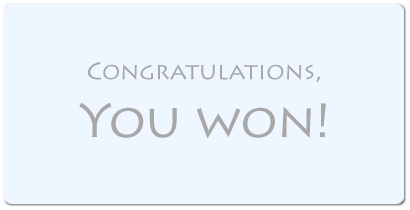
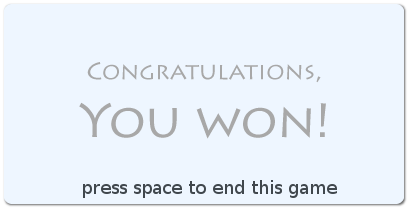
Fixed Unit movement hickup when zooming, Units don't lock up nearly as often or possibly never. Fixed UI top left (victory conditions). Units don't wait one tick before going for their next waypoint.

Changed region(s): [[0.2049, 0.8571, 0.8195, 0.9429]]

diff --git a/xna/G.O/G.O/Tools/ThemeManager.cs b/xna/G.O/G.O/Tools/ThemeManager.cs
@@ -31,10 +31,9 @@ namespace ION
             countY = tileCountY;
 
             xDiff = tileCountX - tileCountY;
-
-           
-            width = (tileCountX+tileCountY-1) * ((float)Tile.baseHalfWidth);
-            height = (tileCountX + tileCountY - 1) * ((float)Tile.baseHalfHeight);
+      
+            width = (tileCountX+tileCountY) * ((float)Tile.baseHalfWidth);
+            height = (tileCountX + tileCountY) * ((float)Tile.baseHalfHeight);
             
             if (theme == MOON_THEME)
             {
@@ -62,39 +61,18 @@ namespace ION
 
         public void resizeGroundTexture()
         {
-            width = (countX + countY - 1) * (Tile.baseHalfWidth);
-            height = (countX + countY - 1) * (Tile.baseHalfHeight);
+            width = (countX + countY) * (Tile.baseHalfWidth);
+            height = (countX + countY) * (Tile.baseHalfHeight);
         }
 
         public void drawGroundTexture()
         {
-            //for (int j = -2; j < countY + 2; j++)
-            //{
 
-            //    temp.X = ION.halfWidth + (int)StateTest.translationX - (((int)width / 2) - (j * (int)width / 2));
-            //    temp.Y = (int)StateTest.translationY - (((int)height / 2) * 2 - (j * (((int)height / 2))));
-            //    temp.Width = (int)width;
-            //    temp.Height = (int)height;
-            //    ION.spriteBatch.Draw(Images.groundTexture, temp, Color.White);
-
-            //    for (int i = 0; i < countX; i++)
-            //    {
-            //        temp.X -= ((int)width / 2);
-            //        temp.Y += ((int)height / 2);
-            //        ION.spriteBatch.Draw(Images.groundTexture, temp, Color.White);
-            //        // temp.Width = (int)width;
-            //        //  temp.Height = (int)height;
-            //    }
-
-            //}
-            //temp.X -= ((int)width / 2);
-            //temp.Y += ((int)height / 2);
             temp.X = ION.halfWidth - ((int)width / 2) + (int)StateTest.get().translationX - (int)(xDiff * (Tile.baseHalfWidth / 2));
-            temp.Y = (int)StateTest.get().translationY;// -((int)height / 2);
+            temp.Y = (int)StateTest.get().translationY;
             temp.Width = (int)width;
             temp.Height = (int)height;
-            //temp.X = ION.halfWidth + (int)StateTest.translationX - (((int)width / 2));
-            //temp.Y = (int)StateTest.translationY - (((int)height / 2) * 2 );
+
             ION.spriteBatch.Draw(Images.groundTexture, temp, Color.White);
 
            

diff --git a/xna/G.O/G.O/UI/Implementations/LevelInfo.cs b/xna/G.O/G.O/UI/Implementations/LevelInfo.cs
@@ -22,8 +22,17 @@ namespace ION.UI
 
         public override void draw()
         {
-            ION.spriteBatch.DrawString(Fonts.small, "Collect "+Grid.toCollect+" ION, "+(int)Grid.get().totalCollected+" so far", position, Color.Gray);
-            //ION.spriteBatch.DrawString(Fonts.small, "Level: " + StateTest.get().levels[StateTest.get().level], position, Color.Gray);
+            //ION.spriteBatch.DrawString(Fonts.small, "Collect "+Grid.toCollect+" ION, "+(int)Grid.get().totalCollected+" so far", position, Color.Gray);
+            ////ION.spriteBatch.DrawString(Fonts.small, "Level: " + StateTest.get().levels[StateTest.get().level], position, Color.Gray);
+
+            if (StateTest.victoryCondition == StateTest.ANNIHILATION)
+            {
+                ION.spriteBatch.DrawString(Fonts.font, "Destroy all enemy bases!", position, Color.Gray);
+            }
+            else if (StateTest.victoryCondition == StateTest.RESOURCE_RACE)
+            {
+                ION.spriteBatch.DrawString(Fonts.font, "Reach "+(int)Grid.toCollect+" ION!", position, Color.Gray);
+            }
         }
 
         public override void offset(int screenX, int screenY)

diff --git a/xna/G.O/G.O/State/StateTest.cs b/xna/G.O/G.O/State/StateTest.cs
@@ -137,10 +137,21 @@ namespace ION
 
         public override void update(int ellapsed)
         {
+            //get keyboard input
+            KeyboardState keyState = Keyboard.GetState();
+
+            //get mouse input
+            MouseState mouseState = Mouse.GetState();
+
+            
             if (gameEnded)
             {
 
                 //listen for key to go back to menu
+                if (keyState.IsKeyDown(Keys.Space))
+                {
+                    ION.get().setState(new StateTitle());
+                }
 
                 return;
             }
@@ -150,11 +161,6 @@ namespace ION
 
             checkVictoryCondition();
 
-            //get keyboard input
-            KeyboardState keyState = Keyboard.GetState();
-
-            //get mouse input
-            MouseState mouseState = Mouse.GetState();
 
            
 

diff --git a/xna/G.O/G.O/Units/Robot.cs b/xna/G.O/G.O/Units/Robot.cs
@@ -138,14 +138,11 @@ namespace ION
                 //return returnValue;
             }
 
-            if (targetPosition != null)
-            {
-                move();
-            }
-            else
-            {
+     
+            //else
+            //{
                 // Code for waypoints
-                if (!moving && destination.Count() != 0)
+                if (targetPosition == null && destination.Count > 0)
                 {
 
                     targetPosition = destination.Dequeue();
@@ -153,7 +150,14 @@ namespace ION
                     //targetPos = temp.GetPos(translationX, translationY);            
                 }
 
-            }
+            //}
+
+            if (targetPosition != null)
+            {
+                move();
+            } 
+
+
             if (scan > Grid.TPS * fireRate)
             {
  

diff --git a/xna/G.O/G.O/Grid/Tile.cs b/xna/G.O/G.O/Grid/Tile.cs
@@ -107,6 +107,14 @@ namespace ION
             return false;
         }
 
+        public void calcSize()
+        {
+            drawingRectangle.X = (int)(ION.halfWidth + (visualX * baseHalfWidth) + StateTest.get().translationX - (baseHalfWidth));
+            drawingRectangle.Y = (int)((visualY * baseHalfHeight) + StateTest.get().translationY);
+            drawingRectangle.Width = (int)(baseHalfWidth * 2);
+            drawingRectangle.Height = (int)(baseHalfHeight * 2);
+        }
+
         //public Vector2 GetPos(float translationX, float translationY)
         //{
         //    Vector2 v = new Vector2();

diff --git a/xna/G.O/G.O/UI/GUIManager.cs b/xna/G.O/G.O/UI/GUIManager.cs
@@ -45,9 +45,9 @@ namespace ION.UI
 
             GUIComposite generalInfo = new GUIComposite(20, 20, Images.selectionBar);
             generalInfo.add(new GUIComponent(10,5, Images.textVictory));
-            generalInfo.add(new LevelInfo(15, 30));
+            generalInfo.add(new LevelInfo(15, 25));
             //generalInfo.add(new StrategyInfo(15, 25));
-            generalInfo.add(new Label(15, 40, "Hold H for Help"));
+            generalInfo.add(new Label(15, 45, "Hold H for Help"));
             addComponent(generalInfo);
 
             //ION.get().IsMouseVisible = false;

diff --git a/xna/G.O/G.O/Units/Unit.cs b/xna/G.O/G.O/Units/Unit.cs
@@ -201,7 +201,10 @@ namespace ION
                 if (u is Robot && u.moving)
                 {
                     Robot r = (Robot)u;
-                    
+
+                    r.position.calcSize();
+                    r.targetPosition.calcSize();
+
                     r.movement.X = r.targetPosition.drawingRectangle.X - r.position.drawingRectangle.X;
                     r.movement.Y = r.targetPosition.drawingRectangle.Y - r.position.drawingRectangle.Y;
 

diff --git a/xna/G.O/G.O/Tools/SoundManager.cs b/xna/G.O/G.O/Tools/SoundManager.cs
@@ -155,7 +155,7 @@ namespace ION.Tools
 
         public static void turretSound()
         {
-            levelOfAction += 10;
+            levelOfAction += 30;
 
             for (int i = 0; i < turretsoundsCount; i++)
             {
@@ -169,7 +169,7 @@ namespace ION.Tools
 
         public static void fireSound()
         {
-            levelOfAction+=10;
+            levelOfAction+=20;
 
             Double d = Tool.unsafeRandom.NextDouble();
 

diff --git a/xna/G.O/G.O/Tools/StupidAI.cs b/xna/G.O/G.O/Tools/StupidAI.cs
@@ -36,7 +36,7 @@ namespace ION.Tools
                 //do things
                 List<Unit> aiUnits = Grid.get().getPlayerUnits(ai);
 
-                if (aiUnits.Count < 3 && maxUnits > 0)
+                if (aiUnits.Count < 2 && maxUnits > 0)
                 {
                     serial++;
                     maxUnits--;

diff --git a/xna/G.O/G.O/ION.cs b/xna/G.O/G.O/ION.cs
@@ -417,8 +417,8 @@ namespace ION
 
 
             //Set the inital state
-            state = new StateTitle();
-            //state = new StateIntro();
+            //state = new StateTitle();
+            state = new StateIntro();
 
             //state = new StateTest();
 

diff --git a/xna/G.O/G.O/Grid/ResourceTile.cs b/xna/G.O/G.O/Grid/ResourceTile.cs
@@ -78,6 +78,8 @@ namespace ION
             //}
         }
 
+
+
         public override void update()
         {
             owner = nextOwner;
